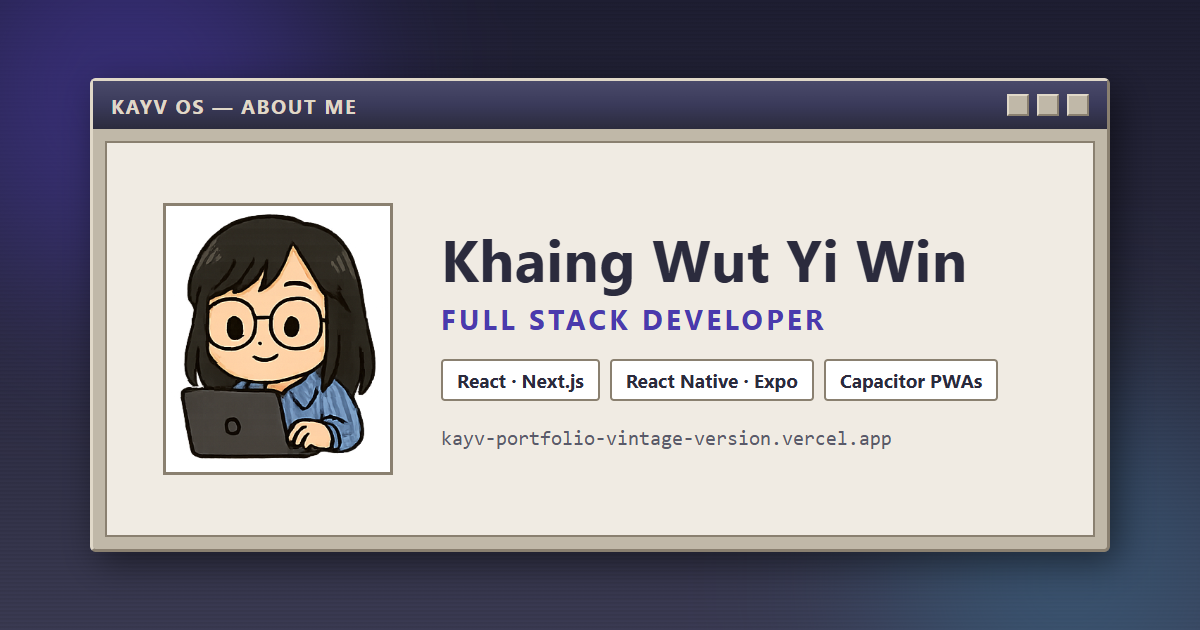
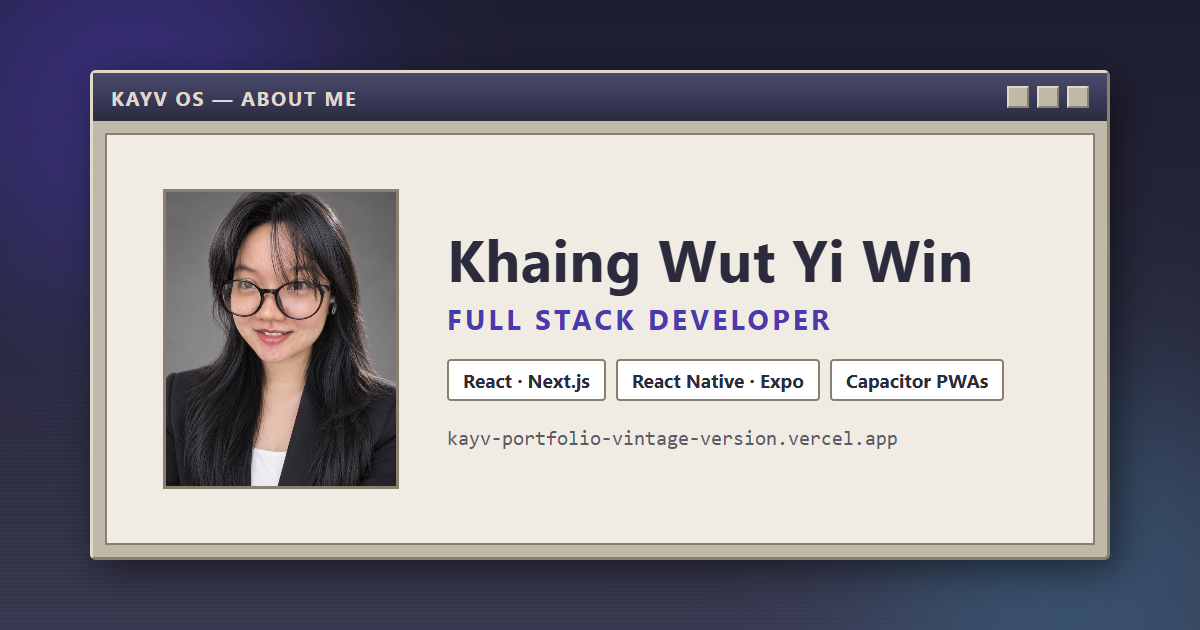
feat(about): use real profile photo across About, start menu and link previews

diff --git a/src/features/about/components/ProfileHero.jsx b/src/features/about/components/ProfileHero.jsx
@@ -1,4 +1,4 @@
-import { Download, Mail, MapPin } from 'lucide-react'
+import { FileText, Mail, MapPin } from 'lucide-react'
 import { profile } from '@/shared/config/profile'
 import { openHireEmail, openResume } from '@/shared/lib/browser'
 import ContactCard from './ContactCard'
@@ -27,9 +27,9 @@ const ProfileHero = () => (
     <div className="os-hero-body">
       <img
         src={profile.avatar}
-        alt={profile.alias}
-        width={104}
-        height={104}
+        alt={`Portrait of ${profile.name}`}
+        width={112}
+        height={140}
         decoding="async"
         className="os-hero-avatar"
         style={{ border: 'var(--os-input-border)', background: 'var(--os-input-bg)' }}
@@ -90,7 +90,7 @@ const ProfileHero = () => (
           </button>
 
           <button type="button" className="quick-action-btn" onClick={openResume}>
-            <Download size={12} aria-hidden="true" />
+            <FileText size={12} aria-hidden="true" />
             Resume
           </button>
         </div>

diff --git a/src/features/about/about.css b/src/features/about/about.css
@@ -30,16 +30,19 @@
   .os-contact-card { grid-column: auto; align-self: start; }
 }
 
+/*
+ * A real headshot now, in a portrait frame to suit it. It used to be a square
+ * cartoon held in greyscale until hovered — fine for a doodle, wrong for a
+ * photo, and on a phone (no hover) it never got its colour back.
+ * Anchored high so the face, not the jacket, fills the frame.
+ */
 .os-hero-avatar {
   flex-shrink: 0;
-  width: 104px;
-  height: 104px;
+  width: 112px;
+  height: 140px;
   object-fit: cover;
-  /* Colour arrives on hover, matching the project cards' cover treatment. */
-  filter: grayscale(1);
-  transition: filter 500ms var(--os-ease);
+  object-position: 50% 22%;
 }
-.os-hero:hover .os-hero-avatar { filter: grayscale(0); }
 
 /*
  * Timeline rail. The line is drawn on the list and the nodes on each item, so

diff --git a/src/os/components/desktop/QuickActions.jsx b/src/os/components/desktop/QuickActions.jsx
@@ -1,4 +1,4 @@
-import { Mail, Download } from 'lucide-react'
+import { FileText, Mail } from 'lucide-react'
 import { Z_LAYERS } from '@/os/constants'
 import { openHireEmail, openResume } from '@/shared/lib/browser'
 
@@ -14,7 +14,7 @@ import { openHireEmail, openResume } from '@/shared/lib/browser'
 const QuickActions = () => (
   <div className="absolute top-5 right-5 flex flex-col items-end gap-1.5" style={{ zIndex: Z_LAYERS.desktopItem }}>
     <button onClick={openResume} className="quick-action-btn group" title="View Resume">
-      <Download size={14} className="flex-shrink-0" />
+      <FileText size={14} className="flex-shrink-0" />
       <span>Resume</span>
     </button>
     <button

diff --git a/src/os/components/taskbar/StartMenu.jsx b/src/os/components/taskbar/StartMenu.jsx
@@ -101,7 +101,7 @@ const StartMenu = ({ onClose }) => {
           {/* User */}
           <div className="px-3 py-2.5 flex items-center gap-2" style={{ borderBottom: '1px solid var(--os-border-dark)' }}>
             <div className="w-7 h-7 rounded-sm overflow-hidden" style={{ border: '1px solid var(--os-border-dark)' }}>
-              <img src={profile.avatar} alt="" className="w-full h-full object-cover" />
+              <img src={profile.avatar} alt="" className="w-full h-full object-cover" style={{ objectPosition: '50% 25%' }} />
             </div>
             <div>
               <p className="text-[11px] font-bold" style={{ color: 'var(--os-text)' }}>{profile.name}</p>

diff --git a/index.html b/index.html
@@ -90,7 +90,7 @@
       "name": "Khaing Wut Yi Win",
       "alternateName": "Kayv",
       "url": "https://kayv-portfolio-vintage-version.vercel.app/",
-      "image": "https://kayv-portfolio-vintage-version.vercel.app/myPf.png",
+      "image": "https://kayv-portfolio-vintage-version.vercel.app/profile-photo.jpg",
       "jobTitle": "Mid-level Full Stack Developer",
       "worksFor": {
         "@type": "Organization",

diff --git a/src/shared/config/profile.js b/src/shared/config/profile.js
@@ -15,7 +15,8 @@ export const profile = {
   email: 'khaingwutyiwin1712@gmail.com',
   phone: '+959795847089',
 
-  avatar: '/myPf.png',
+  /** Headshot, 600x800 (3:4). Crops anchor near the top, where the face is. */
+  avatar: '/profile-photo.jpg',
   /** The generated résumé page (`features/resume`), built from this file. */
   resume: '/resume',
   github: 'https://github.com/hoshikwyw',
